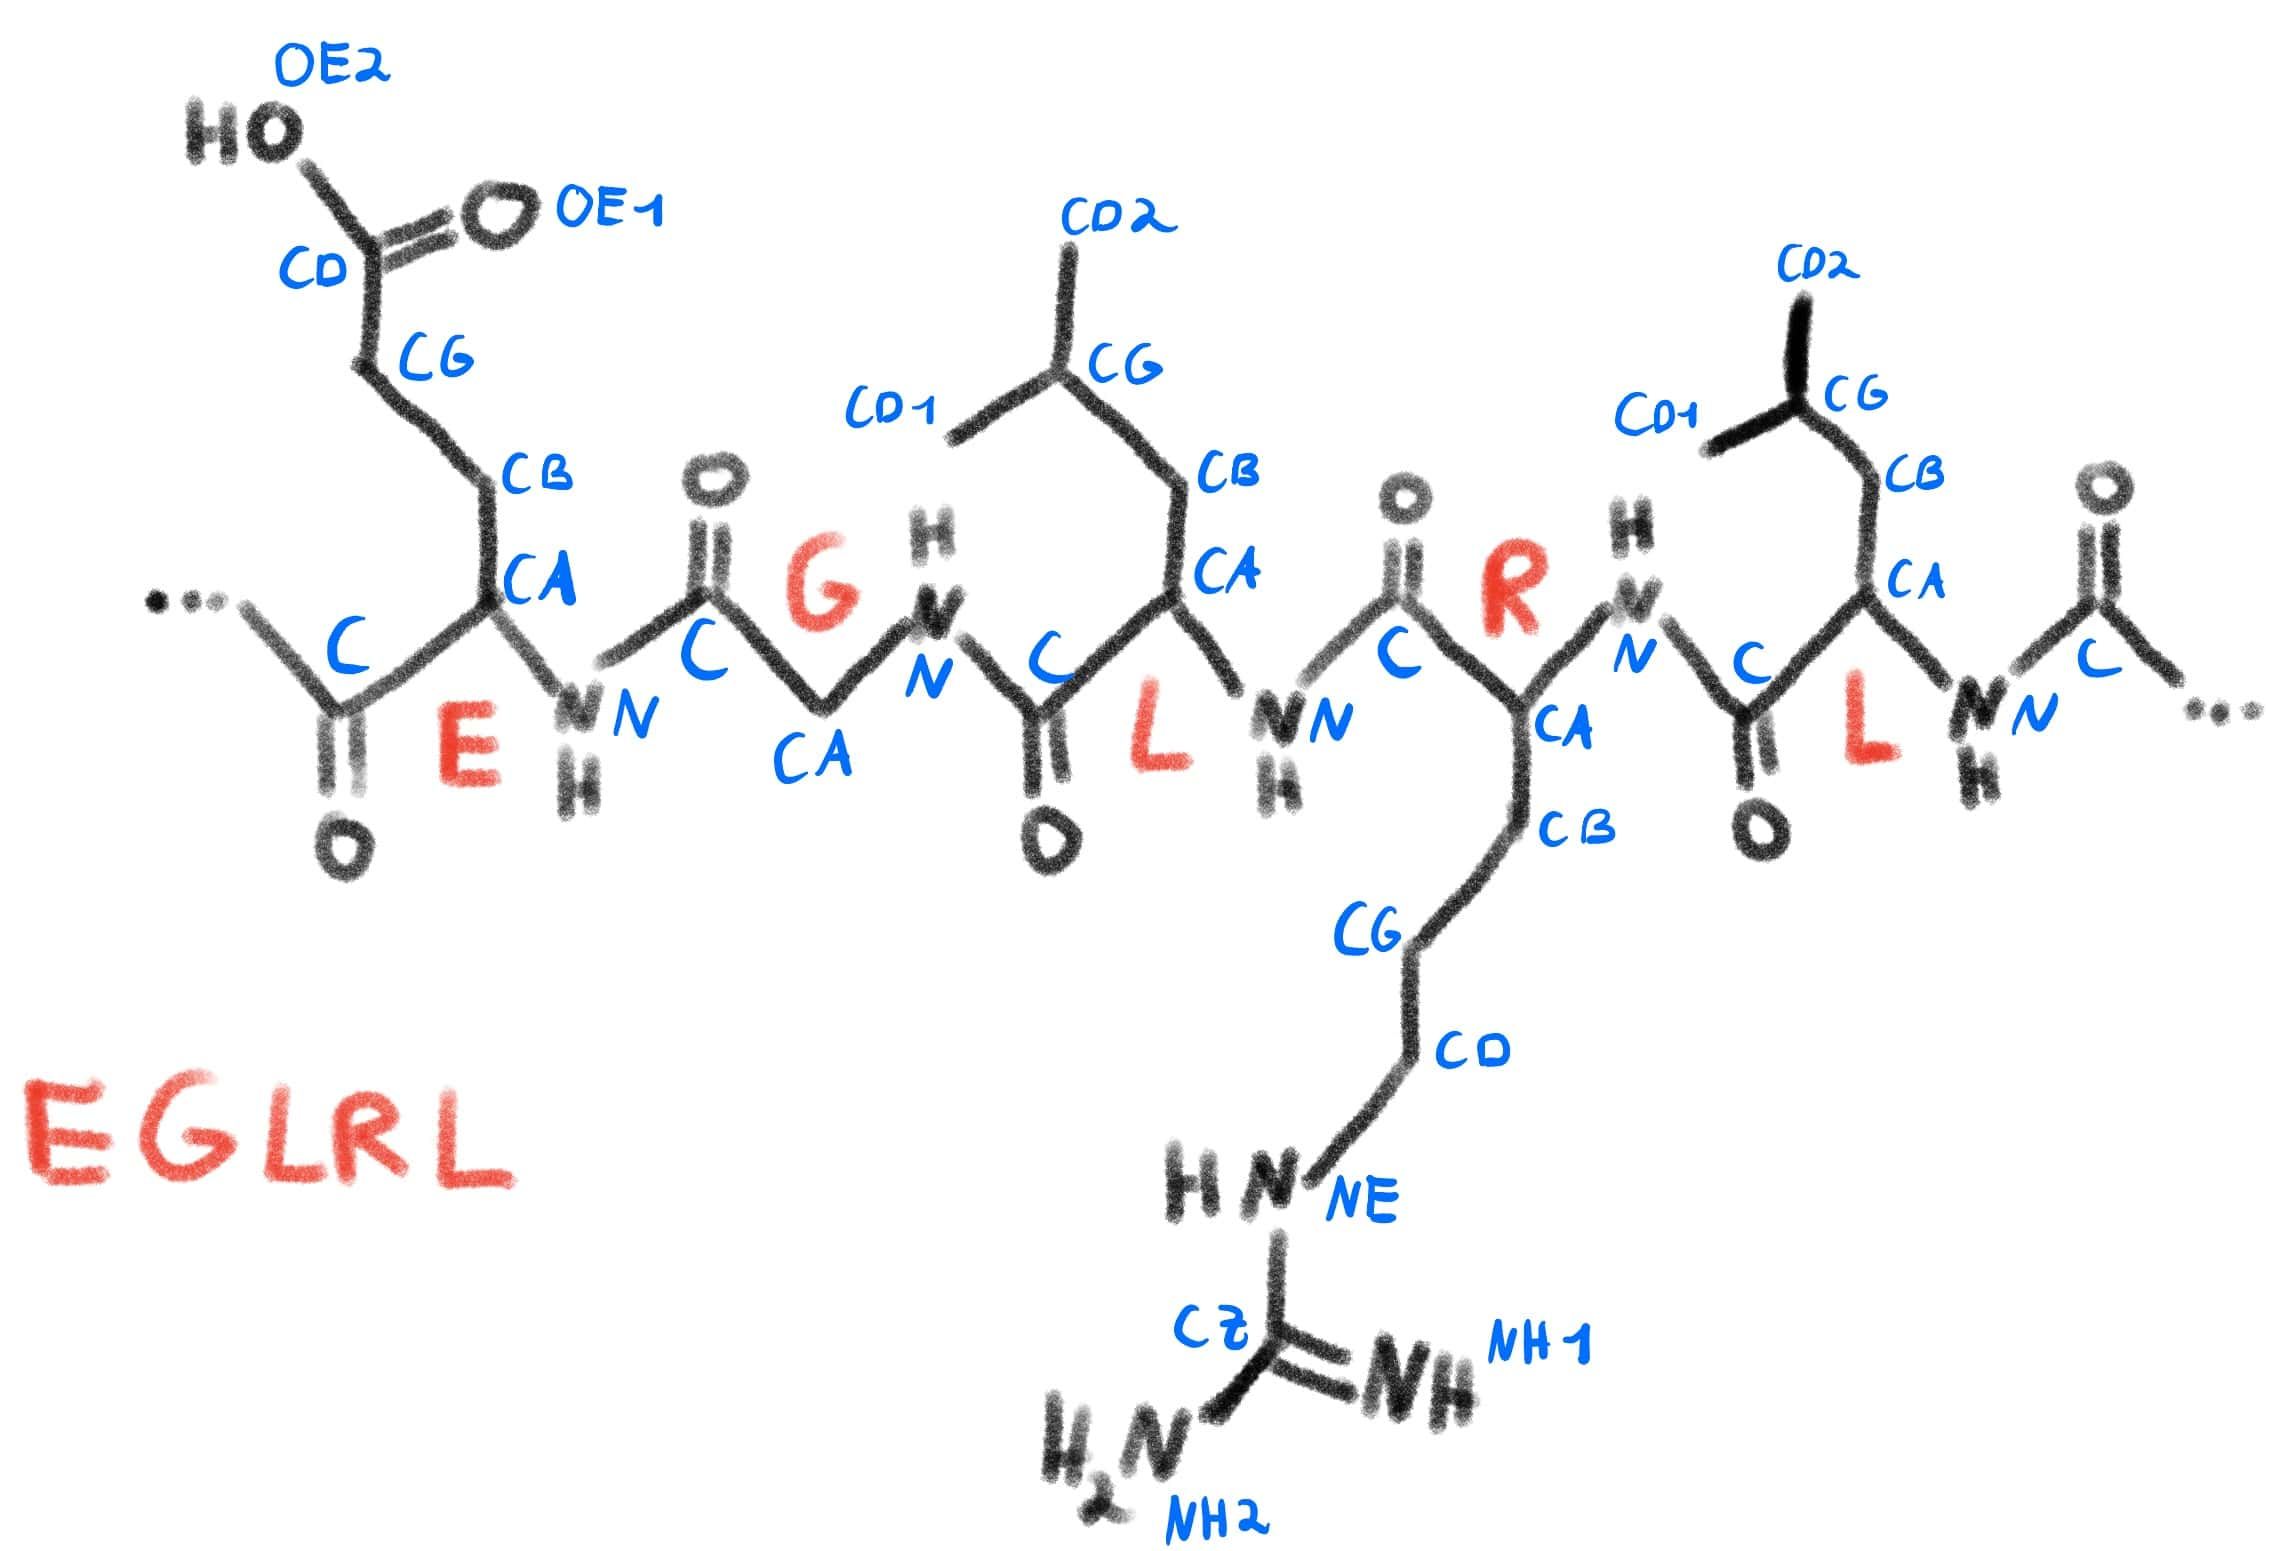
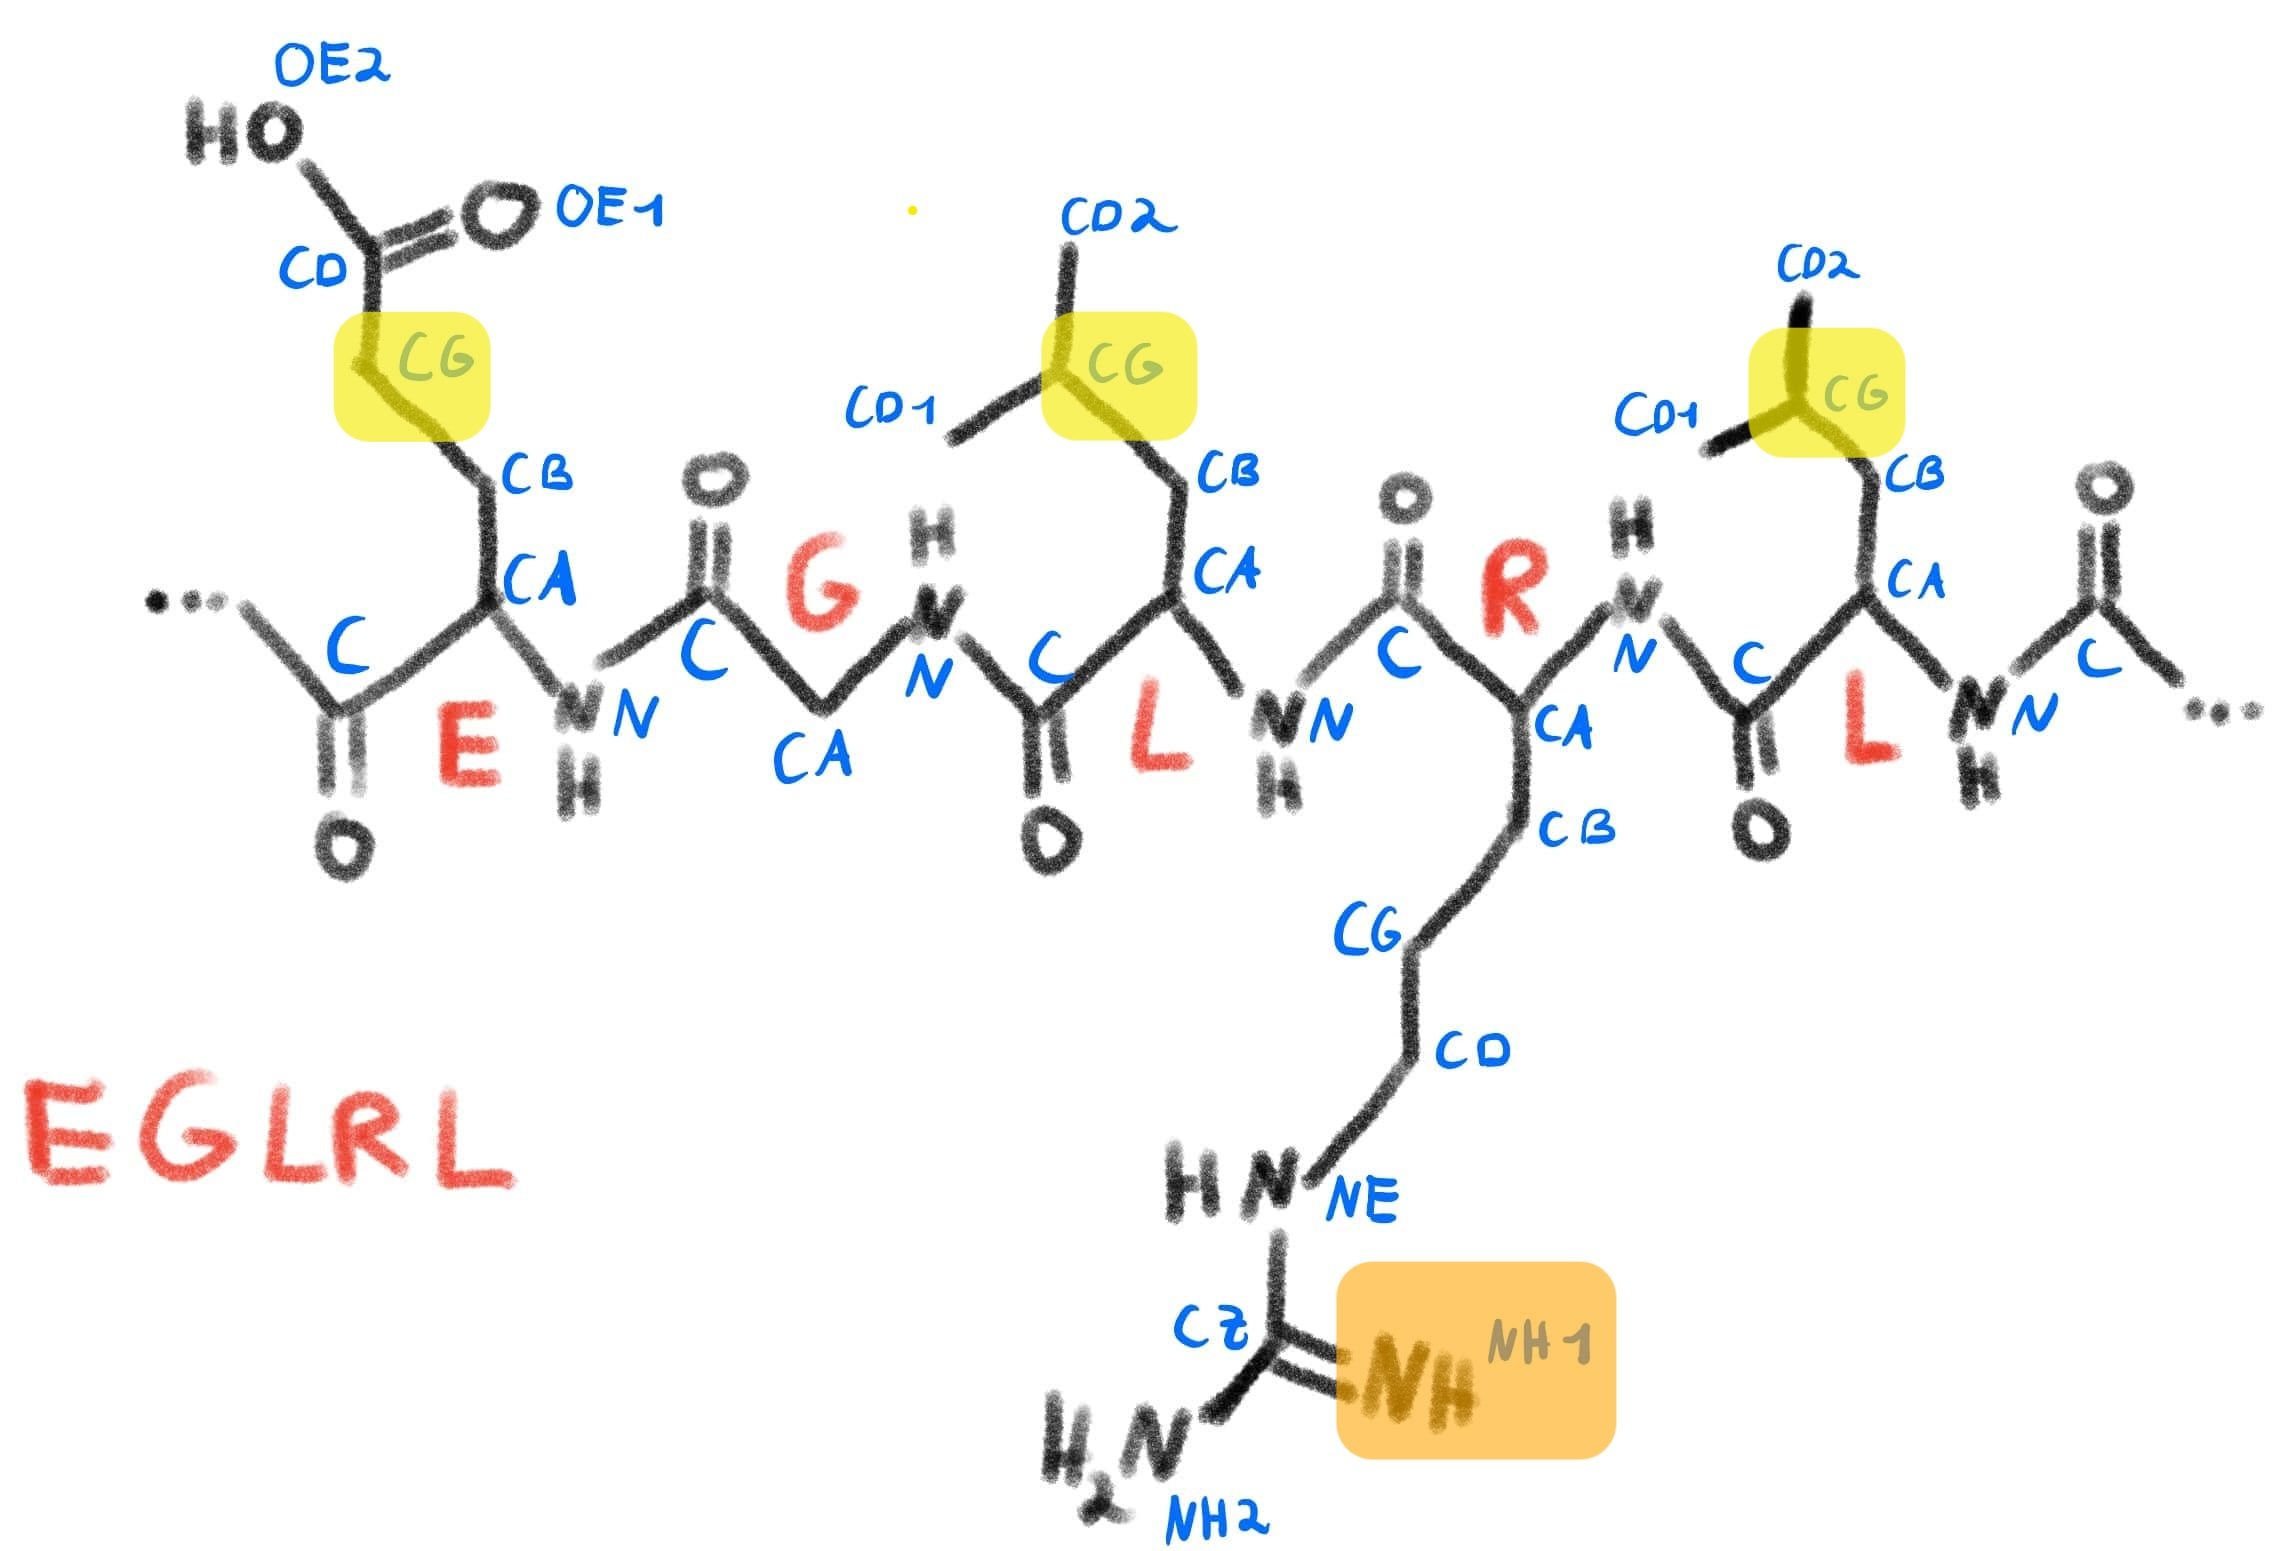
added batching section

diff --git a/proteins/_posts/2024-03-21-protein-representations.md b/proteins/_posts/2024-03-21-protein-representations.md
@@ -332,10 +332,7 @@ restype_order_with_x = {restype: i for i, restype in enumerate(restypes_with_x)}
 OpenFold amino acid encoding.
 {:.figcaption}
 
-
-
-
-
+However, some other models/frameworks use an amino acid encoding that is created by sorting the *1-letter codes* instead of the *3-letter codes* alphabetically. If in doubt, check which encoding your data uses to avoid confusion.
 
 ### Coordinates: Atom14 vs Atom37
 
@@ -446,7 +443,7 @@ atom_type_num = len(atom_types)  # := 37.
 `atom37` ordering.
 {:.figcaption}
 
-Here we can see that the ordering is always the same no matter which residue is represented; however, most of the fields will always be empty since the longest amino acid has only 14 atoms. We therefore exchange efficiency vs standardisation, which explains why internally AF2 often uses `atom14`, but when it interfaces to other programs at I/O it often uses `atom37`.
+Here we can see that the ordering is always the same no matter which residue is represented; however, most of the fields will always be empty since the longest amino acid (tryptophane) has only 14 atoms. We therefore exchange efficiency vs standardisation, which explains why internally AF2 often uses `atom14`, but when it interfaces to other programs at I/O it often uses `atom37`.
 
 If we think about our example of `Ser` again, we can see how the machine representations map to the actual amino acid (again with the caveat that hydrogens are ommited and the carboxyl oxygen is not counted since in a peptide backbone it will have let as water).
 
@@ -472,13 +469,51 @@ Then, execute the following commands via the integrated terminal:
 fetch 168lA # get first chain of lysozyme assembly
 select selection, resi 10-15 # select a subset of residues for simplicity
 hide everything # hide the whole structure for clarity
-show sticks, selection # show stick representation for the selected subset
+show sticks, selection # show stick representation for the selected subset; carbon is green, oxygen is red, nitrogen is blue
+color yellow, (name CG) # color all CG atoms yellow
+color orange,  (name NH1) # color the single NH1 atom orange
 ~~~
-
 
 ![chain example](/assets/img/blog/prot_representation/chain_repr.jpeg)
 
+Schematic representation of the selection from our protein, with the coloring imitating our color scheme in PyMol.
+{:.figcaption}
 
+We can see that PyMol knows about the atom naming convention we discussed and can select and color residues accordingly. It does this by parsing the information it gets from the PDB file and storing this inside the structure object it displays.
+
+We can do the same thing programmatically by using a library such as [Biotite](https://www.biotite-python.org/index.html).
+
+```python
+import biotite.structure as struc
+import biotite.structure.io.mmtf as mmtf
+import biotite.database.rcsb as rcsb
+
+mmtf_file = mmtf.MMTFFile.read(rcsb.fetch("168l", "mmtf"))
+structure = mmtf.get_structure(mmtf_file, model=1)
+
+chain_A = structure[
+    (structure.chain_id == "A") & (structure.hetero == False)
+]
+print(chain_A.res_id) # array([  1,   1,   1, ..., 164, 164, 164])
+selection = chain_A[(chain_A.res_id > 10) & (chain_A.res_id <= 15)]
+print(selection.res_id) # [ 11 11 ... 15 15 ]
+print(selection.array_length()) # 40
+```
+
+Note that we needed to choose >10 here since in Python we zero-index, but the PDB starts its indices at 1 (and, by extension, PyMol does). We see that our selection contains 40 atoms. We can check if that corresponds to the amino acids we wanted to select by checking how many non-hydrogen atoms each of these amino acids have and by subtracting on average 1 oxygen atom per amino acid for forming of the peptide bond.
+
+![amino_acids](/assets/img/blog/prot_representation/amino_acids.png)
+
+Proteinogenic amino acids and some of their properties. Source: [Wikipedia](https://en.wikipedia.org/wiki/File:Overview_proteinogenic_amino_acids-DE.svg)
+{:.figcaption}
+
+$$
+\begin{align}
+E + G + 2L + R - 5
+&= 10 + 5 + 2*9 + 12 - 5
+&= 40
+\end{align}
+$$
 
 ## Reference Systems: Local reference frames vs reference-free methods
 
